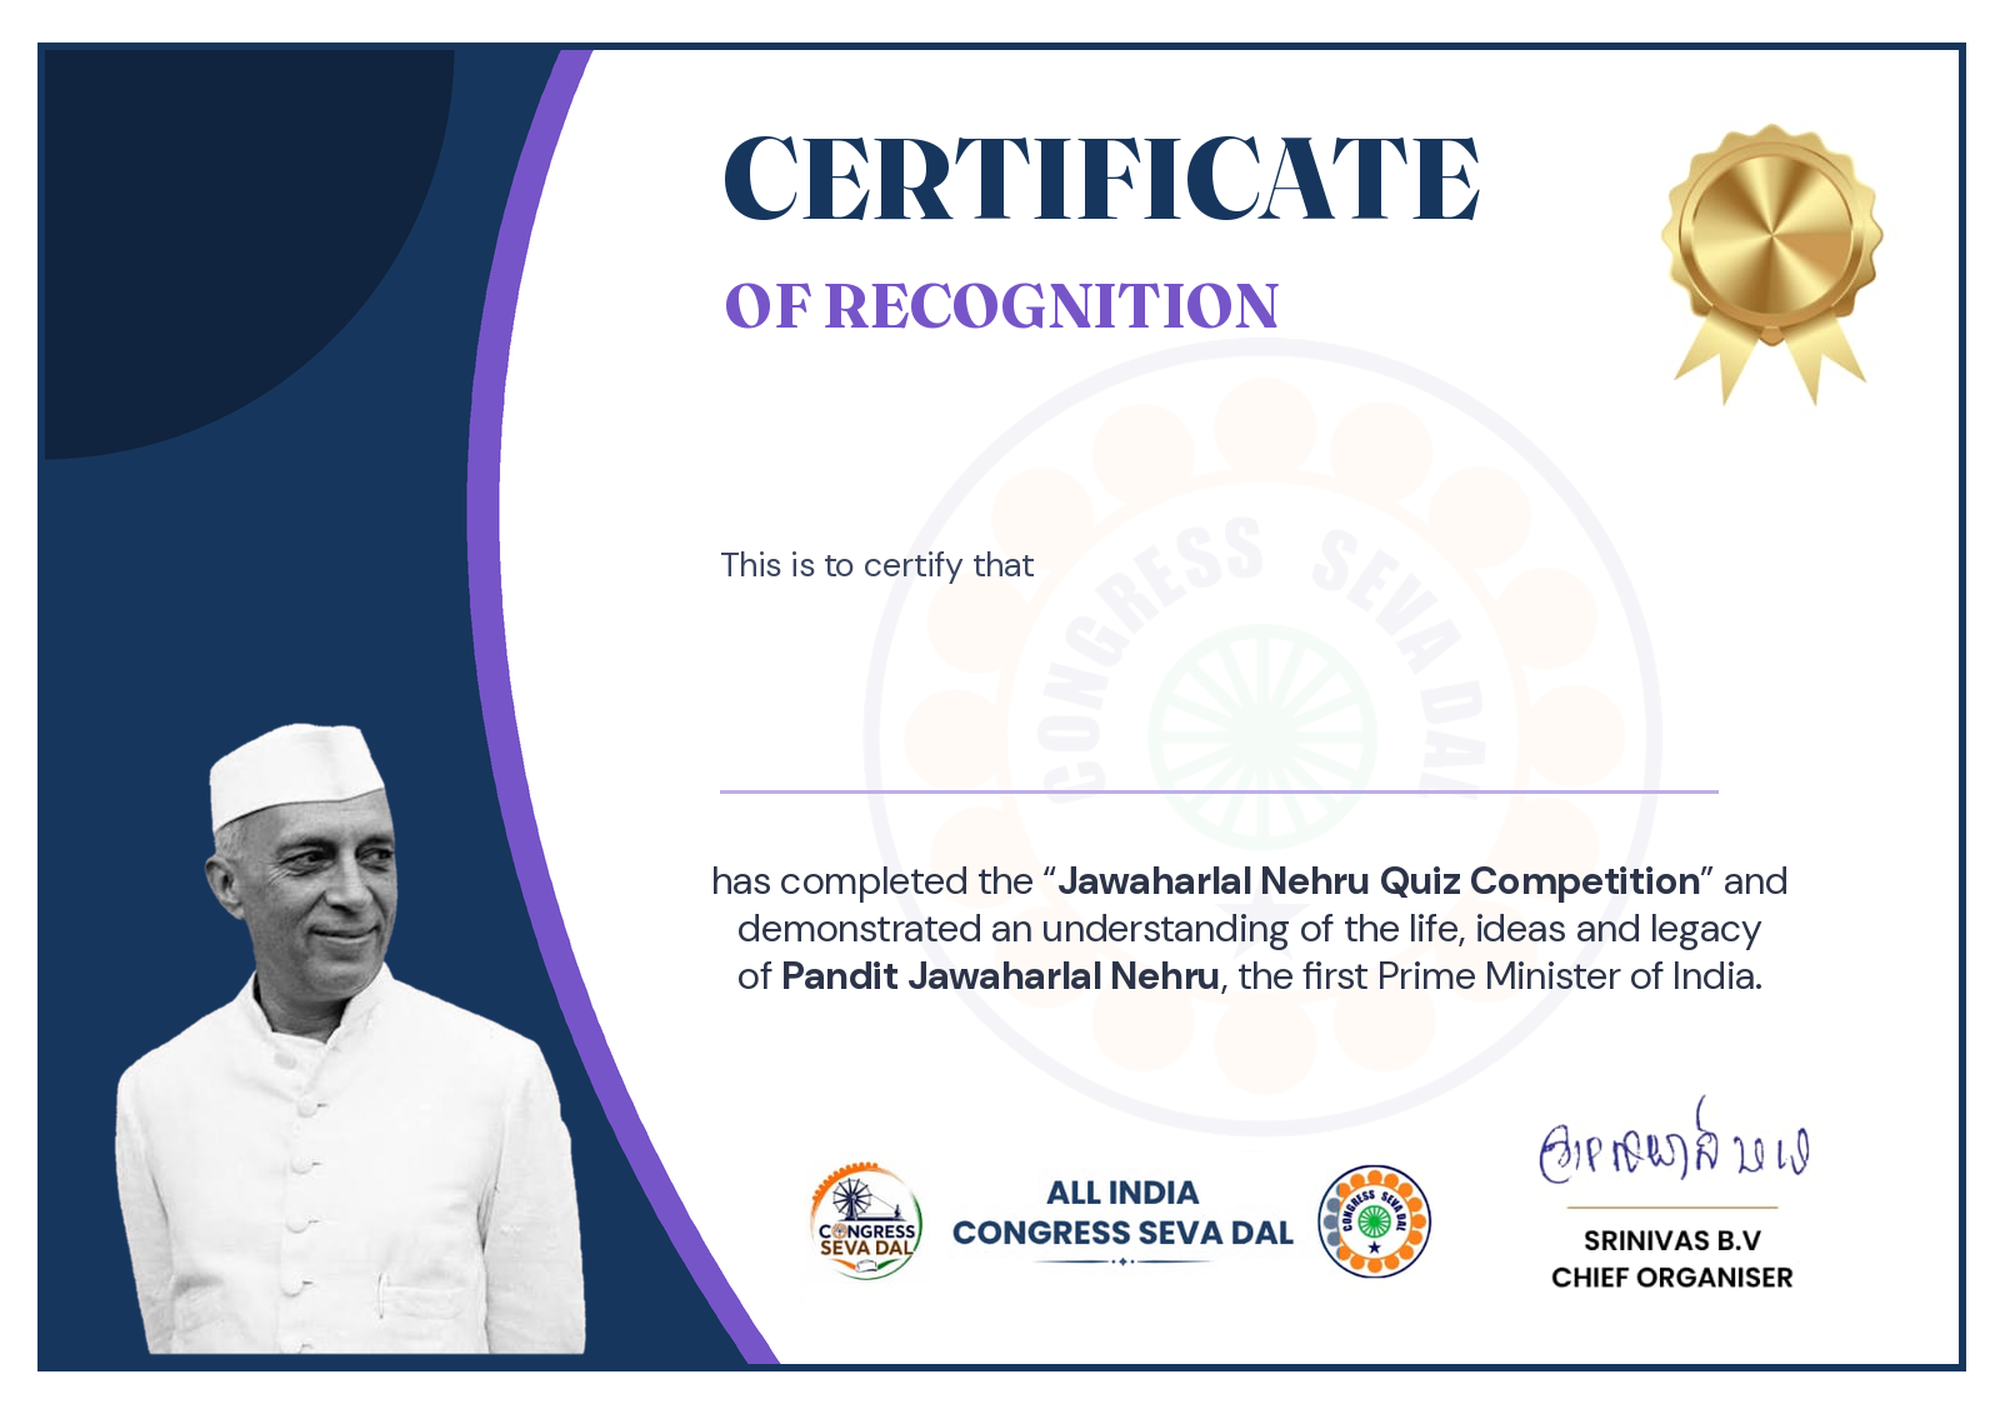
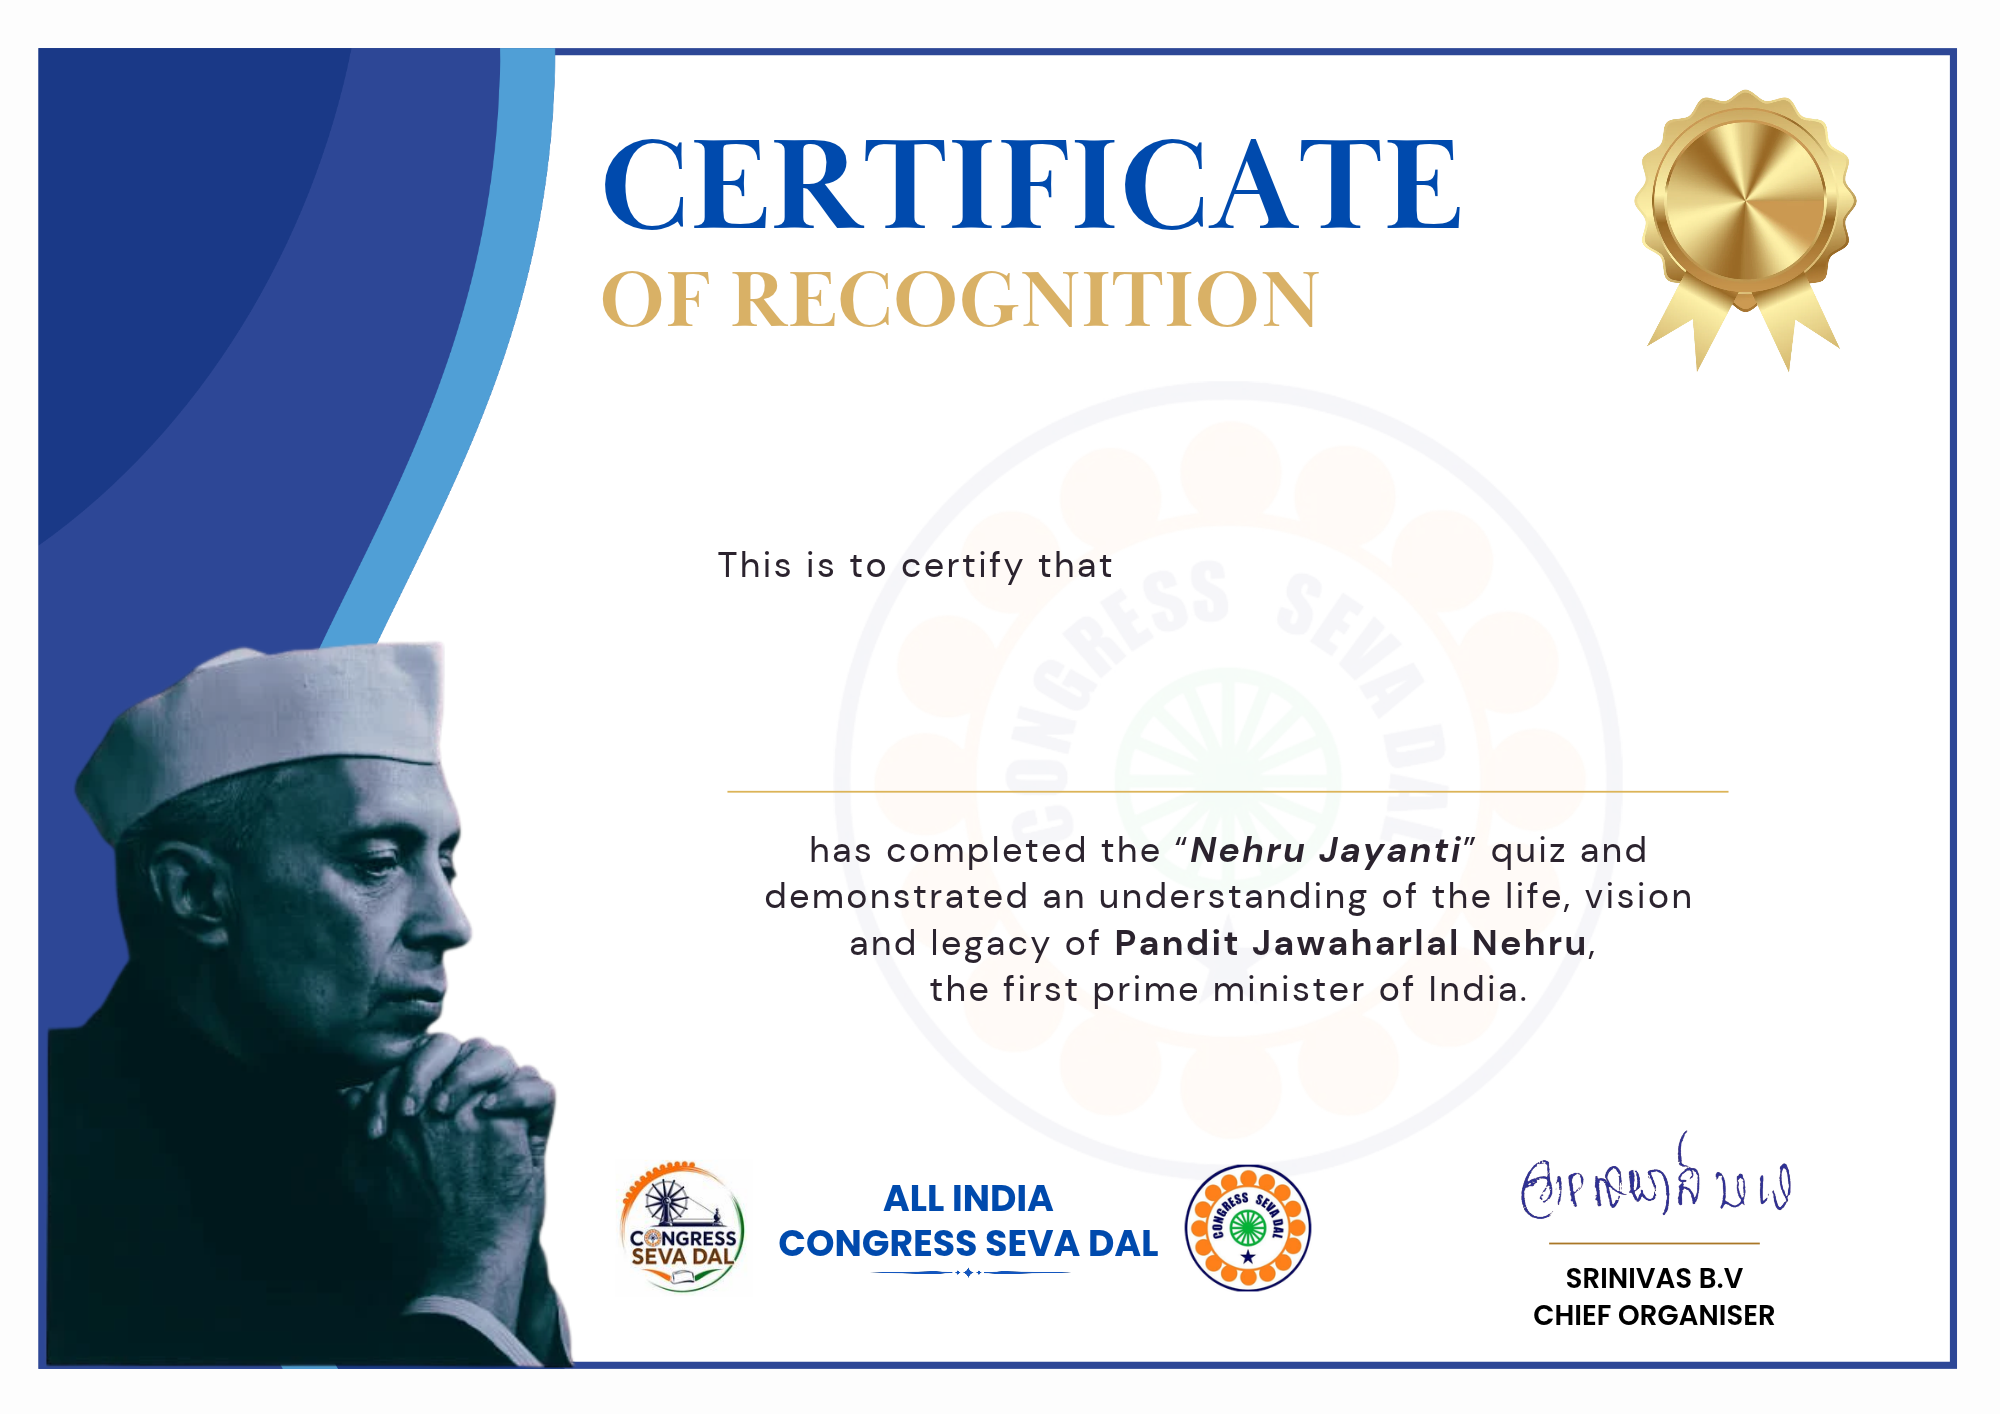
6 files updated

diff --git a/app/api/leaderboard/route.js b/app/api/leaderboard/route.js
@@ -4,7 +4,7 @@ const API_BASE = 'https://api.shaktiabhiyan.in';
 /*new route for leaderboard api call*/
 export async function GET() {
   try {
-    const res = await fetch(`${API_BASE}/api/v1/sevadal/leaderboard`, { cache: 'no-store' });
+    const res = await fetch(`${API_BASE}/api/v1/nehru-jayanti/leaderboard`, { cache: 'no-store' });
     const data = await res.json();
     return NextResponse.json(data, { status: res.status });
   } catch {

diff --git a/app/api/quiz/route.js b/app/api/quiz/route.js
@@ -5,7 +5,7 @@ const API_BASE =  'https://api.shaktiabhiyan.in';
 export async function POST(request) {
   try {
     const body = await request.json();
-    const res = await fetch(`${API_BASE}/api/v1/sevadal/submit`, {
+    const res = await fetch(`${API_BASE}/api/v1/nehru-jayanti/submit`, {
       method: 'POST',
       headers: { 'Content-Type': 'application/json' },
       body: JSON.stringify(body),

diff --git a/components/sections/LiveQuizSection.js b/components/sections/LiveQuizSection.js
@@ -133,7 +133,7 @@ export default function LiveQuizSection() {
     };
 
     try {
-      const res = await fetch('https://api.shaktiabhiyan.in/api/v1/sevadal/enthusiasts', {
+      const res = await fetch('https://api.shaktiabhiyan.in/api/v1/nehru-jayanti/enthusiasts', {
         method: 'POST',
         headers: { 'Content-Type': 'application/json' },
         body: JSON.stringify(payload),

diff --git a/app/certificate-test/page.js b/app/certificate-test/page.js
@@ -58,7 +58,7 @@ async function generateCertificate(name) {
       templateImage.onerror = () =>
         reject(new Error('Failed to load certificate template'));
 
-      templateImage.src = '/Certificate.jpeg';
+      templateImage.src = '/Certificate.png';
     });
   } catch {
     return null;

diff --git a/app/quiz/page.js b/app/quiz/page.js
@@ -85,7 +85,7 @@ async function generateCertificate(name) {
       templateImage.onerror = () =>
         reject(new Error('Failed to load certificate template'));
 
-      templateImage.src = '/Certificate.jpeg';
+      templateImage.src = '/Certificate.png';
     });
   } catch {
     return null;
